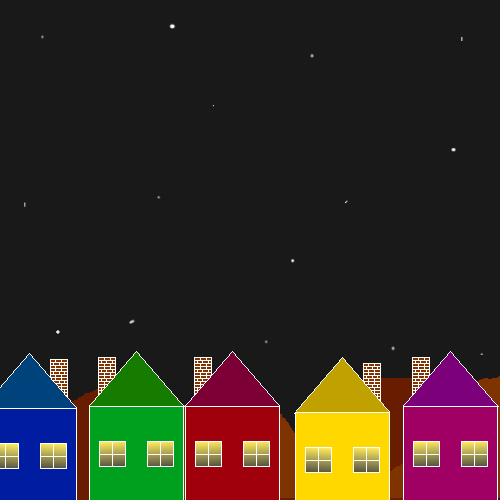
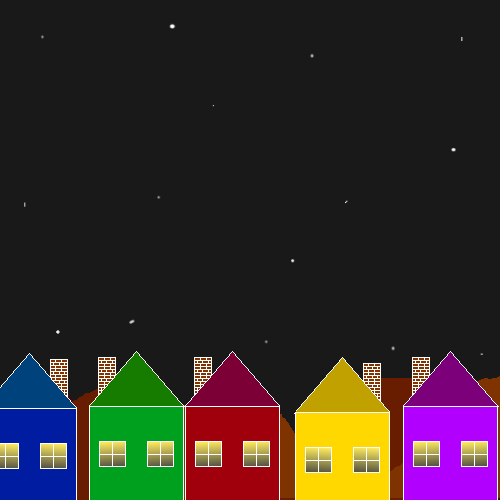
add the possibility of throw the gifts in both directions and changed the pink sprites to a better visibility

Changed region(s): [[0.81, 0.81, 1.0, 1.0]]

diff --git a/gift.js b/gift.js
@@ -13,9 +13,10 @@ Rect.prototype.copy = function(){
 }
 
 class Gift extends SimpleRectCollisor {
-	static instance(x, y, color){
+	static instance(x, y, color, toLeft){
 		let gift = new Gift(x, y, 9, 12);
 		// Creating the property
+		gift.toLeft = toLeft;
 		gift.sprite = new Spritesheet(SANTA_IMG, GIFTS[color], x, y, 9, 12);
 		gift.sprite.drawPriority = 3;
 		
@@ -24,13 +25,17 @@ class Gift extends SimpleRectCollisor {
 	}
 
 	update(){
-		let vel = 20* Ramu.time.delta;
-		
-		this.x += vel;
-		this.sprite.x = this.x;
+		let vel = 20 * Ramu.time.delta;
 		
 		this.y += vel + 0.5;
 		this.sprite.y = this.y;
+		
+		if (this.toLeft)
+			vel = -vel;
+		
+		this.x += vel/2;
+		this.sprite.x = this.x;
+		
 				
 		if (Ramu.Utils.isOutOfCanvas(this))
 			this.destroy();
@@ -86,18 +91,26 @@ class Santa extends SpritesheetAnimation {
 		this.remainedColors.splice(index, 1);
 	}
 	
+	throwGift(left){
+		Gift.instance(this.x + 95, this.y + 11, this.currentColor, left);
+		this.currentTimeToThrow = 0;
+		this.setRandColor();
+	}
+	
 	input(){
 		this.currentTimeToThrow += Ramu.time.delta;
-		if (keyCode.space in Ramu.lastKeysPressed && this.currentTimeToThrow >= this.timeToThrow){
-			Gift.instance(this.x + 95, this.y + 11, this.currentColor);
-			this.currentTimeToThrow = 0;
-			this.setRandColor();
+		if (this.currentTimeToThrow >= this.timeToThrow){
+			if (keyCode.q in Ramu.lastKeysPressed)
+				this.throwGift(true);
+			
+			if (keyCode.e in Ramu.lastKeysPressed)
+				this.throwGift(false);
 		}
-		
+
 		let pos = 100 * Ramu.time.delta;
 		
 		if (keyCode.a in Ramu.pressedKeys || keyCode.left_arrow in Ramu.pressedKeys){
-			if (this.x - pos >= -this.width / 2) // otherwise the chimneys coners will be inaccessible
+			if (this.x - pos >= 0) 
 				this.x -= pos;
 		} 
 		
